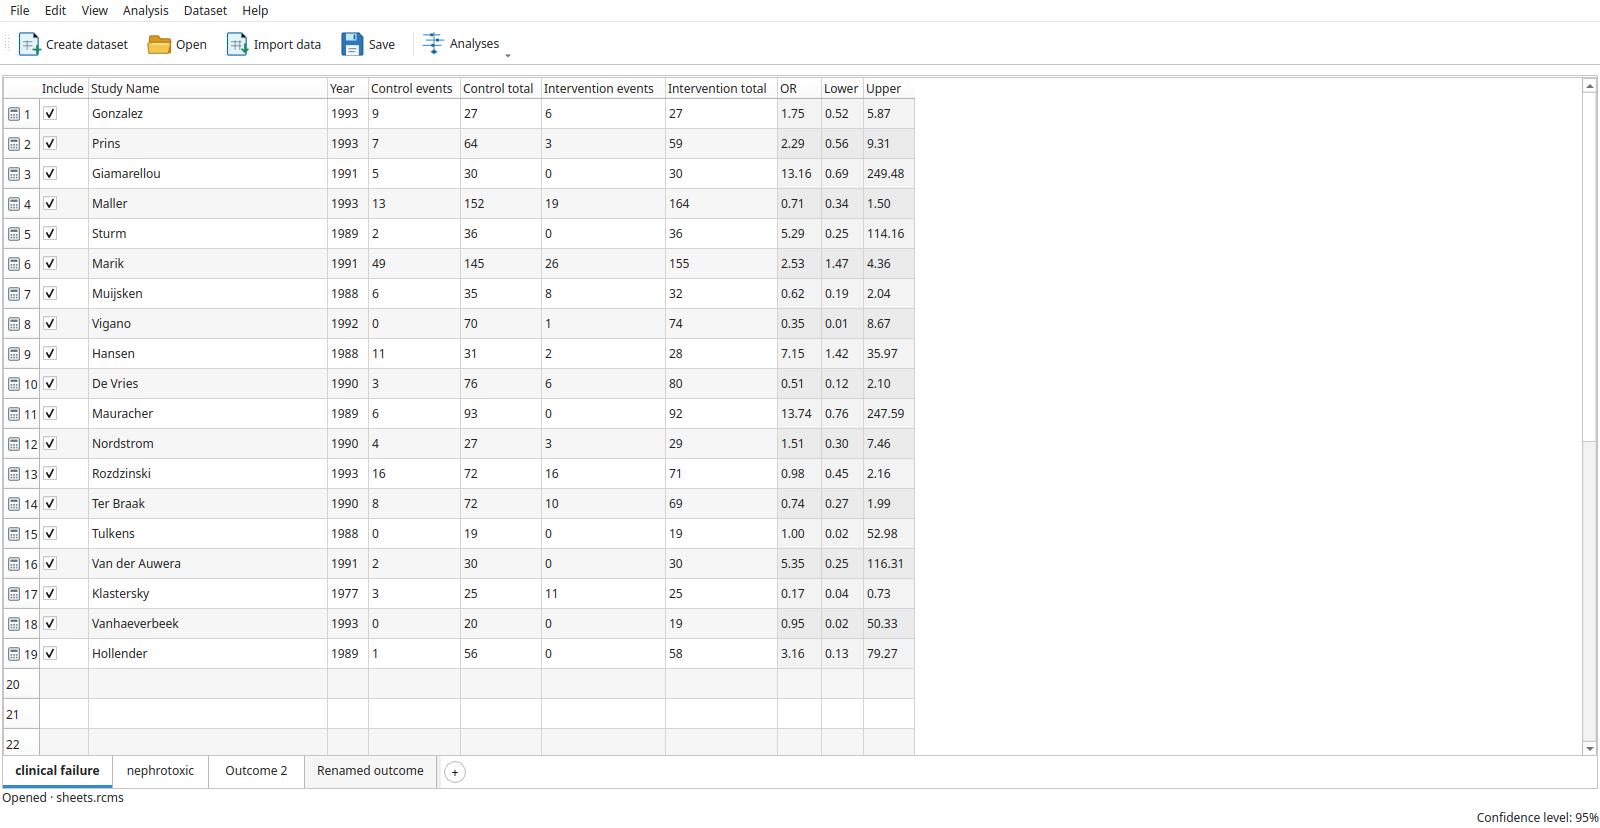
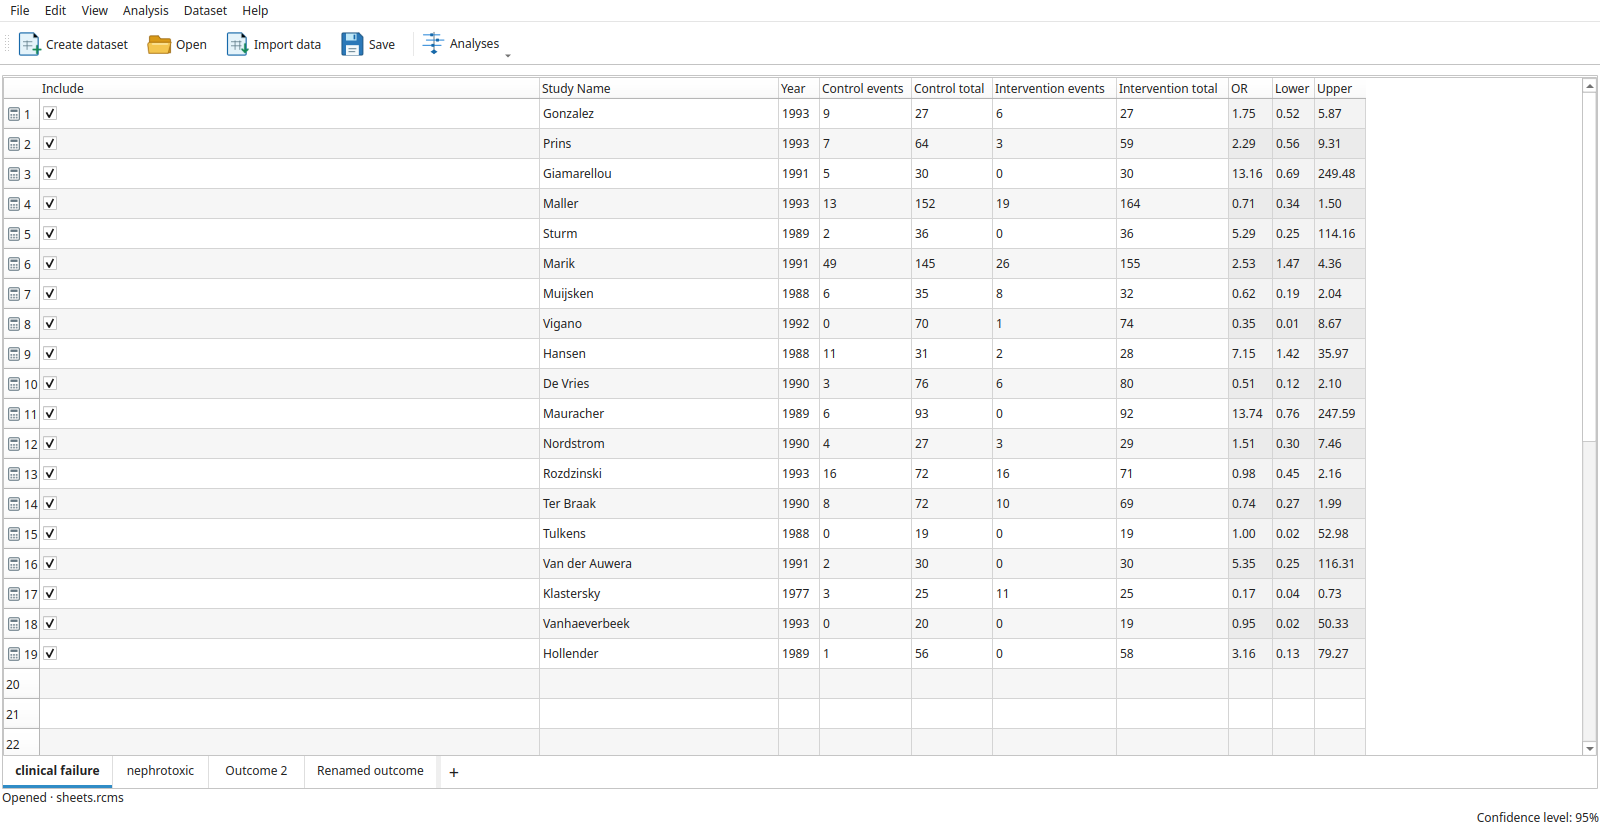
Fix sheet strip palette and prove scrollbar drag and fit visibility

diff --git a/src/rc_metastudio/main_window.py b/src/rc_metastudio/main_window.py
@@ -221,8 +221,14 @@ class SheetTabBar(QtWidgets.QTabBar):
             palette = QtWidgets.QApplication.palette()
             template = getattr(self, "palette_stylesheet", self.styleSheet())
             for name, role in (("window", QtGui.QPalette.ColorRole.Window), ("window-text", QtGui.QPalette.ColorRole.WindowText), ("alternate-base", QtGui.QPalette.ColorRole.AlternateBase), ("mid", QtGui.QPalette.ColorRole.Mid), ("highlight", QtGui.QPalette.ColorRole.Highlight)):
-                template = template.replace("palette(" + name + ")", palette.color(role).name())
+                colour = palette.color(role)
+                if name == "mid":
+                    colour = palette.color(QtGui.QPalette.ColorRole.Window)
+                    colour = colour.lighter(140) if colour.lightness() < 128 else colour.darker(115)
+                template = template.replace("palette(" + name + ")", colour.name())
             self.setStyleSheet(template)
+            if hasattr(self.window(), "add_sheet_button"):
+                self.window().add_sheet_button.setStyleSheet("QToolButton { color: " + palette.color(QtGui.QPalette.ColorRole.WindowText).name() + "; background: transparent; border: 0; font-size: 18px; }")
             self._updating_palette = False
 
     def eventFilter(self, a0: QtCore.QObject | None, a1: QtCore.QEvent | None) -> bool:
@@ -1452,6 +1458,7 @@ class MainWindow(QtWidgets.QMainWindow, _ui_main_window.Ui_MainWindow):
             QTabBar::tab { background: palette(window); color: palette(window-text);
                 border: 0; border-right: 1px solid palette(mid);
                 border-bottom: 3px solid transparent; padding: 6px 12px; }
+            QTabBar::tab:last { border-right: 0; }
             QTabBar::tab:hover { background: palette(alternate-base); }
             QTabBar::tab:selected { background: palette(window); font-weight: bold;
                 border-bottom: 3px solid palette(highlight); }
@@ -1460,7 +1467,7 @@ class MainWindow(QtWidgets.QMainWindow, _ui_main_window.Ui_MainWindow):
         self.add_sheet_button = QtWidgets.QToolButton(self)
         self.add_sheet_button.setText("+")
         self.add_sheet_button.setToolTip("Add sheet")
-        self.add_sheet_button.setStyleSheet("QToolButton { border: 1px solid palette(mid); border-radius: 11px; padding: 0; margin: 2px; } QToolButton:hover { background: palette(alternate-base); }")
+        self.add_sheet_button.setStyleSheet("QToolButton { color: palette(window-text); background: transparent; border: 0; font-size: 18px; padding: 0; margin: 2px; } QToolButton:hover { background: palette(alternate-base); }")
         self.add_sheet_button.setFixedSize(26, 26)
         content = QtWidgets.QWidget(self)
         self.sheet_tab_content = content

diff --git a/tests/e2e/desktop_driver.py b/tests/e2e/desktop_driver.py
@@ -825,6 +825,33 @@ def verify_sheet_strip(app, window, screens):
     assert tabs.visibleRegion().boundingRect().height() == tabs.height()
     assert window.add_sheet_button.visibleRegion().boundingRect().size() == window.add_sheet_button.size()
     assert window.sheet_strip.mapTo(window, QtCore.QPoint()).y() >= window.tableView.mapTo(window, window.tableView.rect().bottomLeft()).y()
+    tabs.setCurrentIndex(0)
+    window.tableView.setColumnWidth(0, 500)
+    window.resize(1024, 700)
+    app.processEvents()
+    app.processEvents()
+    grid_scroll = window.sheet_grid_scrollbar
+    native_scroll = window.tableView.horizontalScrollBar()
+    assert grid_scroll.isVisible() and grid_scroll.maximum() > 0
+    option = QtWidgets.QStyleOptionSlider()
+    grid_scroll.initStyleOption(option)
+    handle = grid_scroll.style().subControlRect(QtWidgets.QStyle.ComplexControl.CC_ScrollBar, option, QtWidgets.QStyle.SubControl.SC_ScrollBarSlider, grid_scroll)
+    start = handle.center()
+    before = grid_scroll.value()
+    QTest.mousePress(grid_scroll, QtCore.Qt.MouseButton.LeftButton, pos=start)
+    QTest.mouseMove(grid_scroll, start + QtCore.QPoint(80, 0), 100)
+    QTest.mouseRelease(grid_scroll, QtCore.Qt.MouseButton.LeftButton, pos=start + QtCore.QPoint(80, 0))
+    assert grid_scroll.value() > before
+    assert native_scroll.value() == grid_scroll.value()
+    window.tableView.scrollTo(window.model.index(0, 0))
+    app.processEvents()
+    assert native_scroll.value() == grid_scroll.value() == 0
+    record_step("sheet-strip-grid-drag-1024", window)
+    assert window.grab().save(str(screens / "slice10-tabs-scrollbar-1024.png"))
+    window.resize(1600, 828)
+    app.processEvents()
+    app.processEvents()
+    assert native_scroll.maximum() == 0 and not grid_scroll.isVisible()
     original_palette = app.palette()
     for theme, foreground, background in (("light", "#202020", "#ffffff"), ("dark", "#eeeeee", "#202020")):
         palette = QtGui.QPalette(original_palette)
